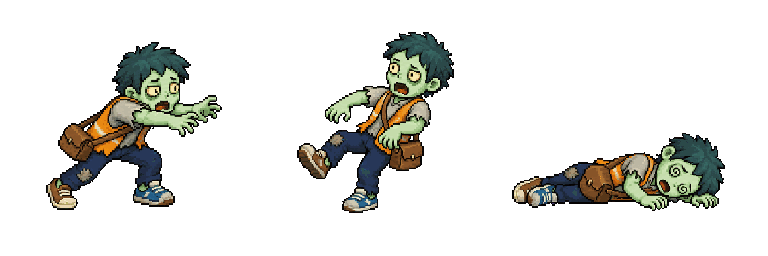
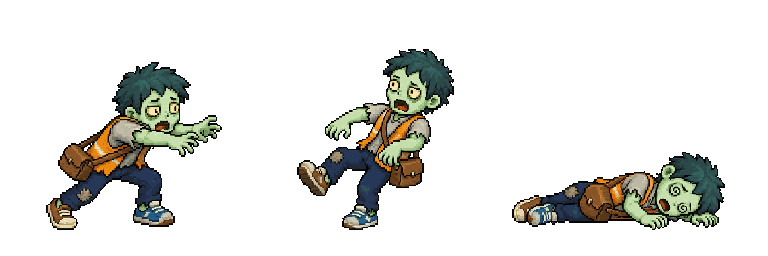
Integrate zombie actions and stage art

Changed region(s): [[0.0625, 0.1562, 0.3125, 0.9062], [0.375, 0.125, 0.5938, 0.9062], [0.6562, 0.5, 0.9688, 0.9062]]

diff --git a/docs/ASSET_MIGRATION.md b/docs/ASSET_MIGRATION.md
@@ -33,5 +33,10 @@ The source repository `Fishforgithub/tea-line-bot` is read-only. Copy only appro
 | `assets/characters/girl/girl_combat_sheet.png` | Approved project-specific sprite sheet from `agent/art-production` commit `323b967`; two 256×256 cells normalized to the standard feet baseline | Integrated as the standing `fire` and timed `reload` states |
 | `assets/characters/girl/girl_damage_sheet.png` | Approved project-specific sprite sheet from `agent/art-production` commit `cd14402`; two 256×256 cells normalized to the standard feet baseline | Integrated as the `hurt` and terminal `faint` states |
 | `assets/enemies/courier_zombie/idle.png` | Approved project-specific courier zombie sprite from `agent/art-production` commit `9a70fa2`; normalized to a 256×256 frame with the standard feet baseline | Integrated as the courier zombie `idle` presentation |
+| `assets/enemies/courier_zombie/action_sheet.png` | Approved three-cell courier zombie action sheet from `agent/art-production` commit `f6420cd`; cells normalized to the standard feet baseline | Integrated as `attack`, `hurt`, and delayed-removal `faint` states |
+| `assets/backgrounds/stage1/city_far.png` | Approved stage-one city background from `agent/art-production` commit `01a0346` | Integrated as a repeating far-background layer with procedural fallback |
+| `assets/tilesets/stage1/ground_tiles.png` | Approved four-cell street ground strip from `agent/art-production` commit `56fe0dc` | Integrated across the stage floor with procedural fallback |
 
 No production assets have been copied from `tea-line-bot` yet.
+
+> Note: `agent/art-production` commit `2641241` was not integrated because `walk_sheet.png` is not a valid PNG blob. The authoritative art branch retains it pending replacement.

diff --git a/README.md b/README.md
@@ -10,7 +10,8 @@ The repository contains a playable vertical-slice prototype with production char
 - mouse aiming, shooting, and timed reload behavior
 - complete girl state set: idle, run, jump, fall, crouch, fire, reload, hurt, and faint
 - autonomous pet follow and auto-attack
-- pursuing zombies with contact attacks and an approved courier-zombie idle sprite
+- pursuing zombies with approved courier-zombie idle and action sprites
+- approved stage-one city background and street ground tiles with procedural fallbacks
 - health, ammunition, defeat, and stage-clear UI
 
 Procedural drawing remains as a fallback while production pet, enemy, effects, and environment art continues to arrive.
